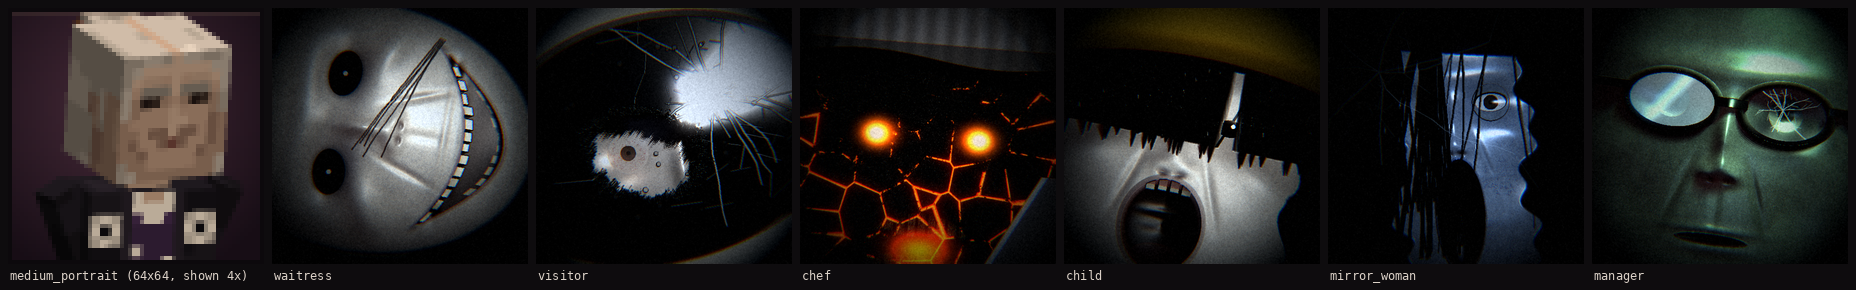
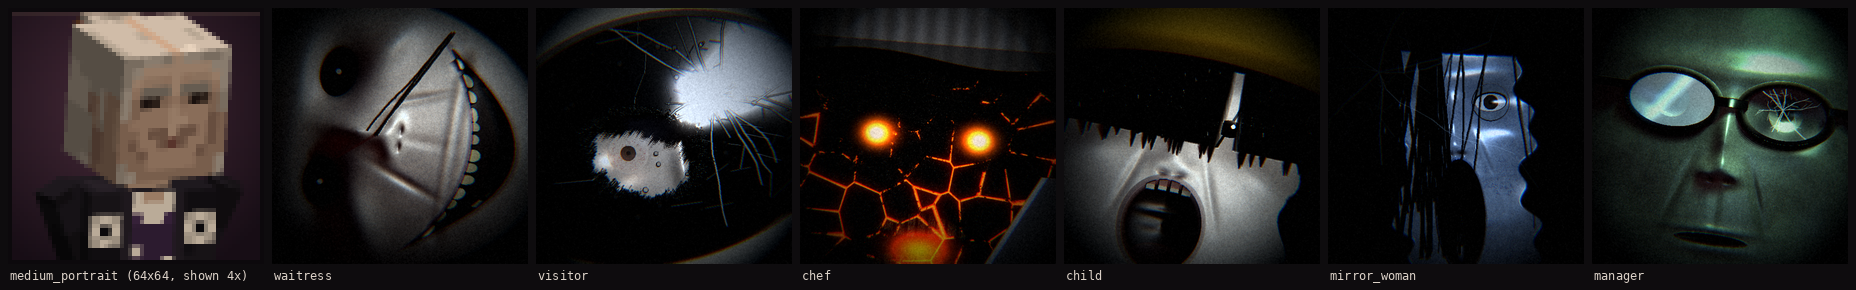
Spirits: waitress jump scare re-lit from the side, uneven teeth in the split grin
Claude-Session: https://claude.ai/code/session_017h8AWA8SMb3MbjFEftA5Gv

Changed region(s): [[0.125, 0.031, 0.3125, 0.8379]]

diff --git a/tools/art/ent_jumpscare.py b/tools/art/ent_jumpscare.py
@@ -430,12 +430,15 @@ def grin(R, u, v, cy=0.36, width=0.47, rise=1.25, open_=0.14, teeth=(0.75, 0.72,
     rt = rng(seed)
     tx = -width + 0.04
     while tx < width - 0.04:
-        tw = rt.uniform(0.022, 0.032)
-        ln = rt.uniform(0.028, 0.045) * (0.6 + 0.4 * (1 - (tx / width) ** 2))
-        tooth = inside & (np.abs(u - tx) < tw * 0.85) & (curve < ln)
-        R.A[tooth] = np.asarray(teeth) * rt.uniform(0.8, 1.05)
+        tw = rt.uniform(0.02, 0.034)
+        ln = rt.uniform(0.026, 0.05) * (0.55 + 0.45 * (1 - (tx / width) ** 2))
+        tooth = inside & ((((u - tx) / (tw * 0.92)) ** 2 + ((curve - ln * 0.35) / (ln * 0.75)) ** 2) < 1.0)
+        tint = np.asarray(teeth) * rt.uniform(0.72, 1.02) * np.array([1.0, rt.uniform(0.95, 1.0), rt.uniform(0.82, 0.95)])
+        R.A[tooth] = tint
         R.H[tooth] += 0.1
         R.WET[tooth] = 1.2
+        gumline = inside & (np.abs(u - tx) < tw * 0.95) & (curve < 0.006)
+        R.A[gumline] = [0.32, 0.18, 0.18]
         if lower_teeth and abs(tx) < width * 0.6:
             low = inside & (np.abs(u - tx - tw) < tw * 0.7) & (curve > gap - rt.uniform(0.02, 0.035))
             R.A[low] = np.asarray(teeth) * rt.uniform(0.6, 0.85)
@@ -662,8 +665,8 @@ def js_waitress_p():
     U0, V0 = R.u, R.v
     roll = -1.4
     U, V = rot_uv(U0, V0, roll, 0.0, 0.0)
-    zoom = 1.7
-    u, v = (U - 0.02) / zoom, (V + 0.3) / zoom
+    zoom = 1.9
+    u, v = (U + 0.02) / zoom, (V + 0.33) / zoom
     f = Face(w=0.58, h=0.8, eye_x=0.23, eye_y=-0.12, socket=0.16, brow=0.03, nose_len=0.24, nose=0.08, mouth_y=0.4,
              mouth_w=0.36, lips=0.012, cheek=0.08, hollow=0.02, chin=0.04)
     H, M, ft = face_height(u, v, f)
@@ -683,14 +686,14 @@ def js_waitress_p():
     outside = smoothstep(-0.01, 0.04, -ell(u, v, 0, 0, 0.58, 0.8)) * (v < 0.3)
     hm = np.clip(hairline + outside, 0, 1)
     hair_mass(R, hm, 4104, flow_angle=-1.5708 + 1.1 * np.tanh(u * 2.0), col=(18, 13, 12), sheen=0.7)
-    strand = strand_mask(4105, 2, lambda r: (r.uniform(0.3, 0.5), -0.75), 2.3, (0.9, 1.2), width=(1.2, 2.0), droop=0.2,
-                         curl=0.4, clump=(2, 4))
-    wet_hair(R, strand, col=(14, 11, 10), sheen=0.6)
-    key = ((0.45, -0.3, 1.0), (1.0, 0.97, 0.93), 1.3, 1.0)
-    fill = ((-0.8, 0.4, 0.4), (0.45, 0.55, 0.72), 0.12, 1.0)
-    col = lit(R, key, fill)
-    col = flash_spot(col, 0.55, 0.47, 0.6, 0.62, floor=0.1)
-    return to_rgb(post(col, 4109, grain=0.075, ca=2.4, vign=1.1, gamma=1.15, tint=(0.95, 1.0, 1.05), crush=0.045))
+    strand = strand_mask(4105, 1, lambda r: (0.42, -0.8), 2.25, (1.0, 1.1), width=(2.5, 3.5), droop=0.25,
+                         curl=0.3, clump=(3, 4))
+    wet_hair(R, strand * 0.9, col=(14, 11, 10), sheen=0.3)
+    key = ((0.95, -0.55, 0.55), (1.0, 0.97, 0.93), 1.45, 1.0)          # the flash held off to one side
+    fill = ((-0.8, 0.4, 0.4), (0.45, 0.55, 0.72), 0.08, 1.0)
+    col = lit(R, key, fill, amb=0.03)
+    col = flash_spot(col, 0.6, 0.45, 0.58, 0.6, floor=0.06)
+    return to_rgb(post(col, 4109, grain=0.08, ca=2.6, vign=1.15, gamma=1.18, tint=(0.95, 1.0, 1.05), crush=0.05))
 
 
 def js_visitor_p():
